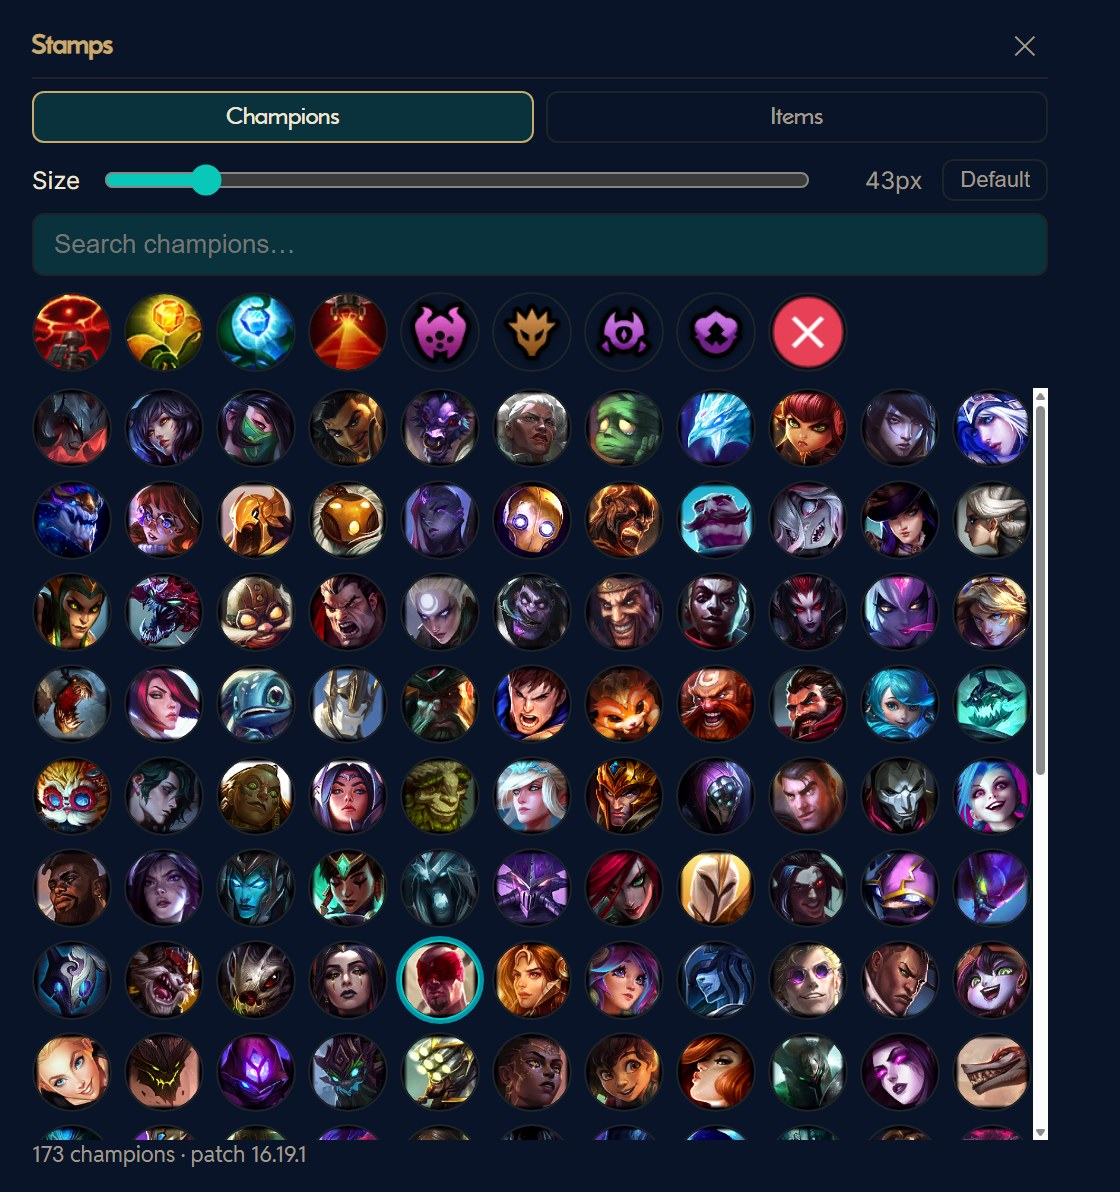
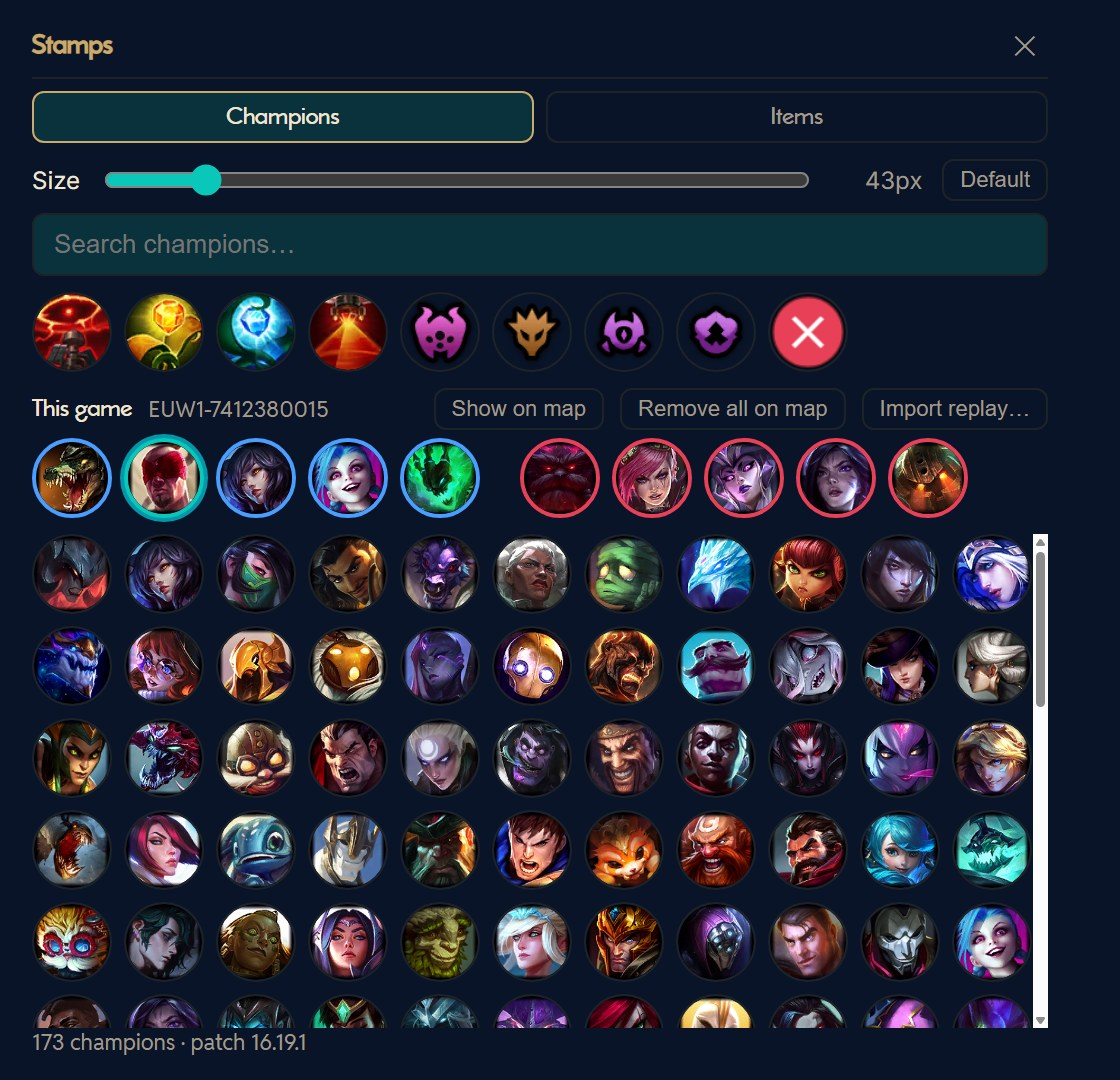
README: current quick guide (Rift Pen needs no account), refreshed pictures

diff --git a/README.md b/README.md
@@ -39,10 +39,10 @@ This page covers what is in the app and how to use each part.
 1. Install `RiftPen-Setup-<version>.exe` from the
    [latest release](https://github.com/Jungle-Kingdom/rift-pen-releases/releases/latest). Windows
    shows "Windows protected your PC" once: click **More info**, then **Run anyway**.
-2. Sign in with your Jungle Kingdom account when the sign-in window opens. Rift Pen comes with a
-   paid membership or a coach / admin role.
-3. Run League in **Borderless**, not exclusive Fullscreen. No overlay can draw over a true
+2. Run League in **Borderless**, not exclusive Fullscreen. No overlay can draw over a true
    exclusive-fullscreen game.
+
+No account is needed. Rift Pen opens straight to the pen, with every tool and stamp.
 
 Once it is running you get a small vertical toolbar and a tray icon. Rift Pen has no taskbar
 button of its own. To get one, open Start, right-click **Rift Pen**, and choose **Pin to taskbar**.
@@ -82,6 +82,8 @@ Things worth knowing:
   exactly as it was.
 - **Drag the logo** at the top to move the bar. `Ctrl+Alt+H` hides and shows it.
 - **The eye** hides everything you have drawn without deleting it. Click it again to bring it back.
+  Hiding with the eye also closes an open Stamps or Settings panel, and turning it back on
+  reopens it.
 - **Hover any button** and it tells you what it does.
 - A red dot on the gear means a hotkey could not be registered because another app owns it. Rebind
   it in Settings.
@@ -100,13 +102,38 @@ Things worth knowing:
 | Arrow, Double arrow, Line | Drag from start to end. |
 | Rectangle, Ellipse | Drag corner to corner. |
 | Eraser | Click or drag over a shape to remove the whole shape. |
+| Freeze | Click to freeze the whole screen, or drag to freeze an area (see [section 4a](#4a-freeze)). |
 
 - **Hold `Shift`** while dragging for straight angles, perfect squares and perfect circles.
 - **Size dots** set stroke width and text size together.
+- **If the text box says "Click to type"**, another app that runs as administrator (like the Jungle
+  HUD) has the keyboard. Click the box once and your typing goes into Rift Pen.
 - **Edit text** by clicking it with the Text tool. **Move text** by dragging it with any drawing
   tool.
 - **Undo and redo** have their own buttons on the bar as well as `Ctrl+Alt+Z` / `Ctrl+Alt+Y`.
   Erasing is undoable too.
+
+### 4a. Freeze
+
+Freeze stops the picture under your ink while the video keeps playing, so you can draw on a
+moment and keep talking.
+
+- **Freeze the screen:** pick the Freeze tool and click, or press `Ctrl+Alt+F`. It freezes the
+  monitor your cursor is on.
+- **Freeze an area:** drag a box with the Freeze tool. The frozen area starts exactly where it was
+  taken. Drag its body to move it, drag the grip in its bottom-right corner or scroll the wheel over
+  it to resize it (it keeps its shape; scrolling grows it around your cursor), and close it with its X.
+- **Unfreeze:** `Ctrl+Alt+F` again, a click with the Freeze tool on a frozen screen, or the area's X.
+- **Draw on it** with any ink tool. With the pen out, moving or resizing a frozen area needs the
+  Freeze tool picked; any other tool draws on it. Its X closes it under any tool.
+- **With the pen away,** clicks pass through to the video underneath, except over a frozen area:
+  its body is a handle. Drag it to move it, drag the grip to resize it, X to close it.
+- **Unfreezing takes the ink you drew during the freeze with it.** Ink from before the freeze stays,
+  and so do replay champions. Undo brings the frozen picture and that ink back.
+- **Clear** wipes the ink but keeps the frozen picture.
+- Freeze and the zoom box start almost instantly while the pen is out, because the screen capture
+  stays ready on the monitor your cursor is on.
+- There is one freeze per monitor. Freeze is also in the tray menu and the Settings hotkey list.
 
 ---
 
@@ -123,9 +150,19 @@ objective setup without needing a game on screen.
 - **Move it:** with the pen away, drag the map anywhere. With the pen out, drag the thin strip
   along its top edge (it turns gold when you hover it), because a drag on the map itself draws.
 - **Draw on it:** pull the pen out and draw. Stamps, arrows and text all land on top of it.
+- **Replay champions:** the ten champions of a League replay can be placed on the map in their
+  lanes (see [section 6](#this-game-a-replays-ten-champions)). With the pen away, press on one to
+  drag it, wherever it is. They move and resize with the map. Hiding the map removes them, and
+  `Show on map` in the Stamps picker brings them back. One undo also brings the map back with its
+  champions. The map button also closes the Stamps picker, so reopen the picker first.
 
 Put the map where you want it **before** you draw. Your ink belongs to the screen, not to the map,
-so moving the map afterwards leaves the drawing behind.
+so moving the map afterwards leaves the drawing behind. The replay champions are the exception:
+they are part of the map setup, so they travel with it. A champion you resized yourself keeps its
+size relative to the map when the map moves or is resized.
+
+With the pen away, a press on a champion drags that champion and a press anywhere else on the map
+drags the map.
 
 The picture above pairs it with a blackboard (see [section 10](#10-boards-fading-ink-screenshots))
 so nothing else is on screen. Without a board the map sits over your game or video.
@@ -142,19 +179,53 @@ swords on the toolbar to open the picker.
 1. **Pick one.** It gets a teal ring, and the pen comes out with the stamp armed.
 2. **Click on screen** to place it. Click again somewhere else to place another. The picker stays
    open, so a whole team comp is pick, click, pick, click.
-3. **Move a stamp** by dragging it. **Resize it** by scrolling the wheel over it.
+3. **Move a stamp** by dragging it, with the pen out or put away. **Resize it** by scrolling the wheel
+   over it.
 4. **Remove one** with the eraser, or press `Delete` right after placing or clicking it.
 
 What is in the picker:
 
-- **Champions tab:** every champion, with a search box. Always on the current patch.
-- **Items tab:** every Summoner's Rift item, most expensive first. The chips filter by stat, and
-  picking two chips shows items that give both.
+- **Champions tab:** every champion, with a search box, in Top, Jungle, Mid, Bot and Support
+  sections (a champion who plays two roles shows in both). The position chips narrow to those
+  roles; pick several to see several. Always on the current patch.
+- **Items tab:** every Summoner's Rift item, grouped into AD, AP, Tank, Support, Boots, Starters
+  and Consumables, most expensive first inside each group. The stat chips still narrow to items
+  that give every stat you picked.
 - **The marker row** above the grid is always there: Control Ward, Stealth Ward, Farsight, Oracle
   Lens, then Baron, Dragon, Herald, Grubs, and a red X.
 - **Ward stamps place with a vision circle** around them (the teal ring in the map picture above).
   Scroll over the ward to make the circle bigger or smaller.
 - **Size slider:** how big new champion and item stamps are placed. **Default** puts it back.
+- **The This game row** on the Champions tab: see below.
+
+### This game: a replay's ten champions
+
+<img src="images/rift-map-champions.jpg" width="560" alt="The Rift map with the ten champions of a replay in their lanes, blue rings for one team and red for the other" />
+
+Under the marker row, **This game** shows the ten champions of your most recent League replay: the
+blue team first, then the red team, each in lane order (Top, Jungle, Mid, Bot, Support). Every one
+is a stamp like any other: pick it and click on screen to place it.
+
+- **`Import replay…`** picks a different replay file (`.rofl`). You can also drop the file onto the
+  picker, but with the pen out the overlay covers Explorer, so use the button then.
+- **`Latest`** appears once you have imported a file. It goes back to your newest replay.
+- **`Show on map`** opens the Rift map and puts both teams in their lanes, blue rings and red
+  rings. Importing or dropping a replay does this for you. Opening the picker never does. With two
+  monitors, the champions go on the monitor under your cursor if the map is up there. Otherwise
+  they go on the monitor that already shows the map. Only when no map is up does the monitor under
+  your cursor get one.
+- **`Remove all on map`** takes the champions off the map and leaves the map up.
+
+Once they are on the map, the eraser takes one champion at a time. Undo takes back a whole
+placement in one press, and the same goes for placing them again, `Remove all on map` and hiding
+the map. The undo hotkey only works while the pen is out or something is drawn on screen; with
+the pen away and nothing drawn, use the toolbar's undo button. With the pen away, press on a
+champion to drag it, even if you dragged it off the map.
+Scroll the wheel over a champion with the stamp tool to give it its own size.
+
+League keeps replays in `Documents\League of Legends\Replays`. A replay only exists as a file once
+you have downloaded it in the League client. The app reads the champions, teams and lanes from the
+file and nothing else: no player names.
 
 <img src="images/stamps-items.jpg" width="560" alt="The Stamps picker on the Items tab with the AD chip on" />
 
@@ -248,7 +319,7 @@ keep going to the game while you type.
 - **Fading ink:** strokes fade out on their own after a few seconds (2 to 20). Good for live
   commentary where you never want to stop and clear. Turn it on in Settings. Stamps do not fade.
 - **Screenshot:** `Ctrl+Alt+P` saves the screen with your drawings to `Pictures\RiftPen` and copies
-  it to the clipboard.
+  it to the clipboard. On a whiteboard or blackboard the shot includes the Rift map and its champions.
 - **Hide everything:** the eye button or `Ctrl+Alt+V` hides all of your drawings and panels and
   brings them back untouched.
 
@@ -262,13 +333,13 @@ Open it with the gear on the toolbar, or tray menu > **Settings**.
 
 | Setting | What it does |
 |---|---|
-| Profile | The account you are signed in with, and Sign out. |
 | Highlighter blend | Normal, or Multiply (darkens what is under it, like a real highlighter). |
 | Magnifier zoom | Starting zoom for the zoom box and cursor zoom. |
 | Spotlight dim | How dark the screen goes outside the spotlight circle. |
 | Fading ink | Turn fading on, and set how many seconds a stroke lasts. |
 | Text background | Puts a dark plate behind text so it reads over a busy screen. |
 | Pop-up messages | Off silences the "Cleared", "Saved" and "Copied" confirmations. Errors still show. |
+| Main monitor | Where the notes, the Rift map and replay champions open. The default follows the cursor. |
 | Board / Board monitor | Whiteboard or blackboard, and which screen it covers. |
 | Quick colors | Change the four color dots on the toolbar. |
 | Hotkeys | Click a shortcut, then press the new combination. **Reset hotkeys** restores the defaults. |
@@ -282,7 +353,8 @@ Everything is saved between sessions.
 
 | Action | Shortcut |
 |---|---|
-| Pen out / pen away | `Ctrl+Alt+D` |
+| Pen out / pen away (brings back the last tool) | `Ctrl+Alt+D` |
+| Pen: switch straight to the pen; again goes back to the cursor | `Ctrl+Alt+N` |
 | Put the pen away, drop spotlight and cursor zoom | `Esc` |
 | Undo / Redo | `Ctrl+Alt+Z` / `Ctrl+Alt+Y` |
 | Clear everything | `Ctrl+Alt+C` |
@@ -290,6 +362,7 @@ Everything is saved between sessions.
 | Rift map: show / hide | `Ctrl+Alt+R` |
 | Spotlight | `Ctrl+Alt+S` |
 | Cursor zoom | `Ctrl+Alt+M` |
+| Freeze / unfreeze the screen | `Ctrl+Alt+F` |
 | Numbered notes: add a line | `Ctrl+Alt+G` |
 | Numbered notes: remove last line / clear list | `Ctrl+Alt+Shift+G` / `Ctrl+Alt+Shift+C` |
 | Whiteboard / Blackboard | `Ctrl+Alt+B` |
@@ -306,7 +379,7 @@ Otherwise those keys go to whatever app you are using.
 
 ## 13. What Clear removes and what it keeps
 
-The trash can and `Ctrl+Alt+C` wipe every screen at once. One undo brings it all back.
+The trash can and `Ctrl+Alt+C` wipe every screen at once. One undo brings back what it removed.
 
 | On screen | Clear everything | How to remove it instead |
 |---|---|---|
@@ -316,8 +389,10 @@ The trash can and `Ctrl+Alt+C` wipe every screen at once. One undo brings it all
 | Zoom box | **Kept** | Its own X, or a click with the Zoom box tool |
 | Rift map | **Kept** | The map button, or `Ctrl+Alt+R` |
 | Numbered notes | **Kept** | The panel's own remove and clear buttons |
+| Frozen picture | **Kept** (its ink is removed) | `Ctrl+Alt+F`, the Freeze tool, or the area's X |
+| Map champions (from a replay) | **Kept** | `Remove all on map` in the Stamps picker, or hide the map |
 
-The three that stay are the things you keep talking over between diagrams.
+The five that stay are the things you keep talking over between diagrams.
 
 ---
 
@@ -330,9 +405,13 @@ The three that stay are the things you keep talking over between diagrams.
 | A hotkey does nothing | Another app owns it. The gear shows a red dot; rebind the key in Settings > Hotkeys. |
 | I cannot find the toolbar | `Ctrl+Alt+H`, or tray menu > Show / hide toolbar. |
 | Champion or item stamps will not load | Check your internet, then close and reopen the picker. The marker row still works offline. |
+| "No replay found" under This game | Nothing is in `Documents\League of Legends\Replays` yet. Download a replay in the League client, or use `Import replay…`. |
+| "Could not read that replay" | The file is old or damaged. Try a recent replay. |
+| "Not a replay file" | The replay you dropped is on a network location (such as `\\server\share`), or is not a file on this computer. Use `Import replay…`, which opens it, or copy the replay to this computer first. |
+| An error stays under This game for a moment, then the game's name comes back | That is normal. A failed import or drop clears its message after about 4 seconds and the row goes on showing the replay it had. |
+| "No lane positions in this replay" | The mode has no lanes, such as ARAM. The This game row still works; placing them on the map does not. |
 | The cursor zoom shows an old picture | It is a snapshot. Tray menu > Cursor zoom: refresh. |
 | My drawing did not move with the map | Ink stays where you drew it. Place the map first, then draw. |
-| "Rift Pen · junglekingdom.gg" in the corner and one stamp only | You are not signed in, or the account has no access. Sign in from the tray menu. |
 | I typed and the game lost focus | Text and notes need the keyboard while you type. Click the game to give it back. |
 | The toolbar or my drawings blinked and the ink is gone | That window crashed and reloaded itself. Keep going; if it repeats, send the files in the next row. |
 | Rift Pen closed by itself | Open it again, then paste `%APPDATA%\Rift Pen` into the Explorer address bar and send `rift-pen-errors.log` plus the newest file in `Crashpad\reports`. Nothing is uploaded on its own. |
@@ -342,4 +421,5 @@ The three that stay are the things you keep talking over between diagrams.
 Rift Pen isn't endorsed by Riot Games and doesn't reflect the views or opinions of Riot Games or
 anyone officially involved in producing or managing Riot Games properties.
 
-Source is private; this repository holds the installers, the update feed and this guide.
+The pictures on this page are generated from the app itself by `npm run docs:images`
+(`scripts/docs/capture-guide-images.cjs`). Re-run it after a UI change and commit the result.
